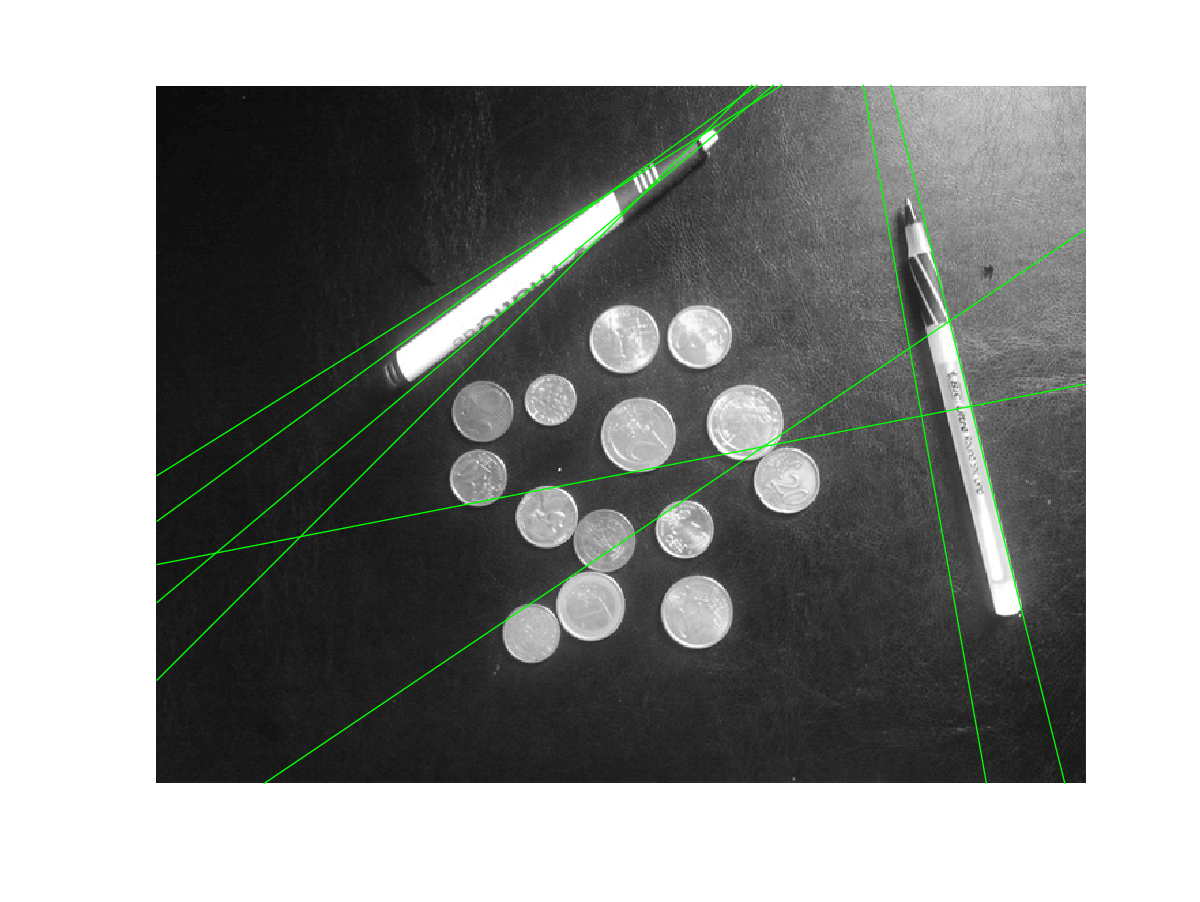
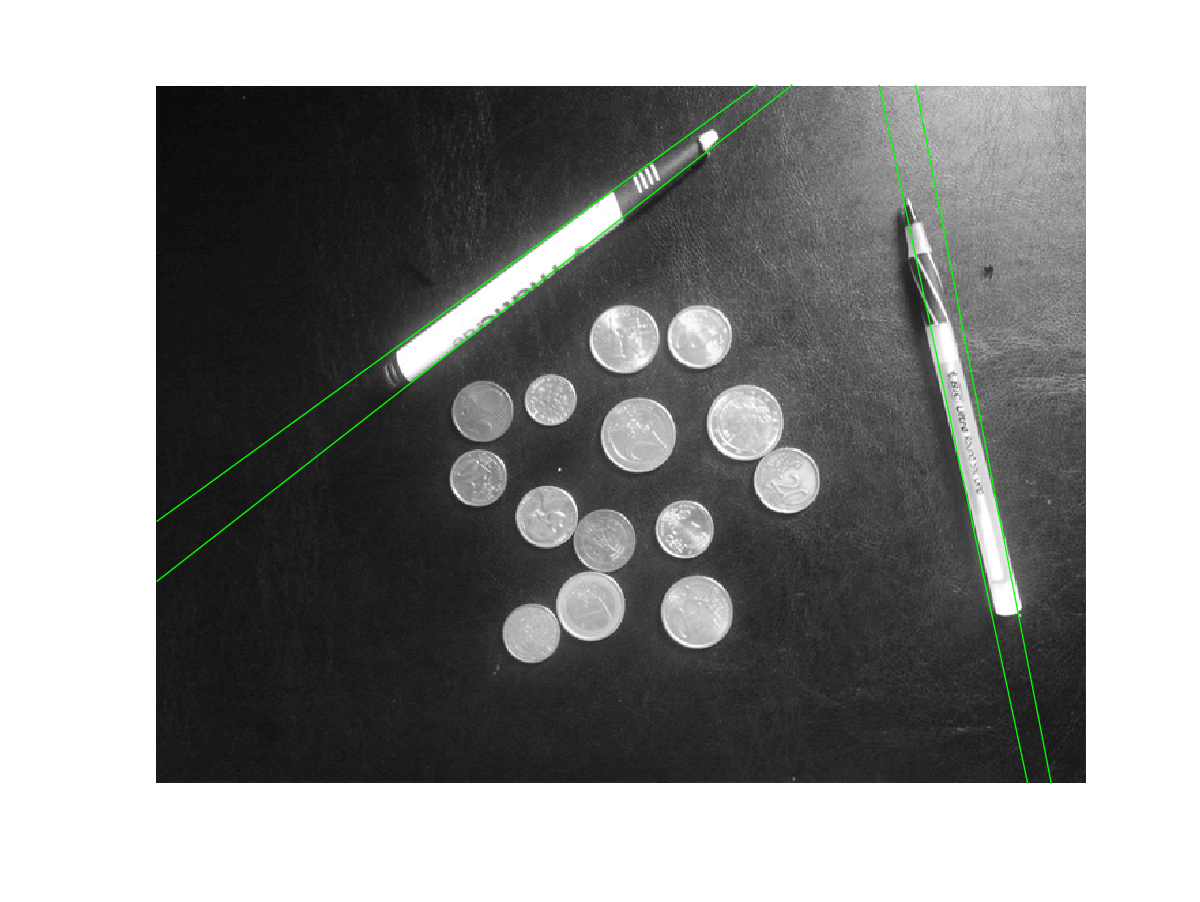
Change filter and parameters for better result

diff --git a/Introduction to Computer Vision/ps1_octave/ps1.m b/Introduction to Computer Vision/ps1_octave/ps1.m
@@ -48,8 +48,8 @@ saveas(1,'output/ps1-3-c-1.png');
 hough_lines_draw(img, 'ps1-3-c-2.png', peaks, rho, theta);
 
 %% 4-a
-f_size = 15;
-f_sigma = 5;
+f_size = 20;
+f_sigma = 15;
 fil = fspecial('gaussian',f_size,f_sigma);
 img = rgb2gray(imread(fullfile('input', 'ps1-input1.png')));
 smooth = imfilter(img,fil,'replicate');
@@ -63,7 +63,7 @@ imwrite(smooth_edges, fullfile('output', 'ps1-4-b-1.png'));
 [H, theta, rho] = hough_lines_acc(smooth_edges, 'RhoResolution', 2);
 grayH = uint8(mat2gray(H) * 255);
 imshow(grayH, 'xData', theta, 'yData', rho);
-peaks = hough_peaks(H, 5, 'Threshold', 0.3 * max(H(:)),...
+peaks = hough_peaks(H, 5, 'Threshold', 0.45 * max(H(:)),...
                     'NHoodSize', floor(size(H) / 140.0) * 2 + 1);
 hold on; plot(theta(peaks(:,2)), rho(peaks(:,1)),'rs'); hold off;
 saveas(1,'output/ps1-4-c-1.png');
